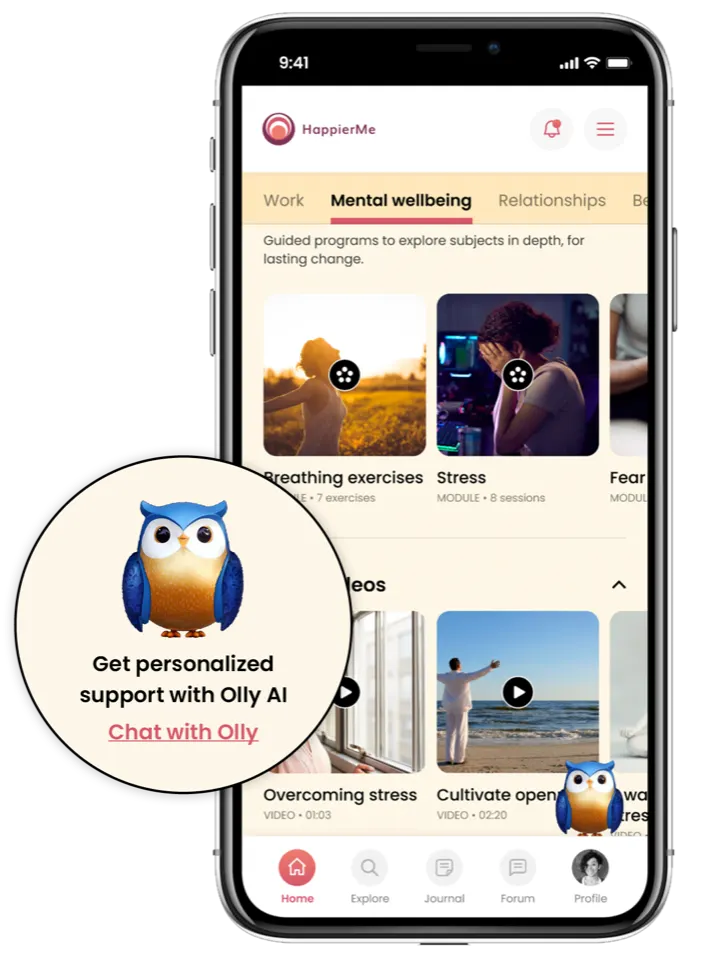
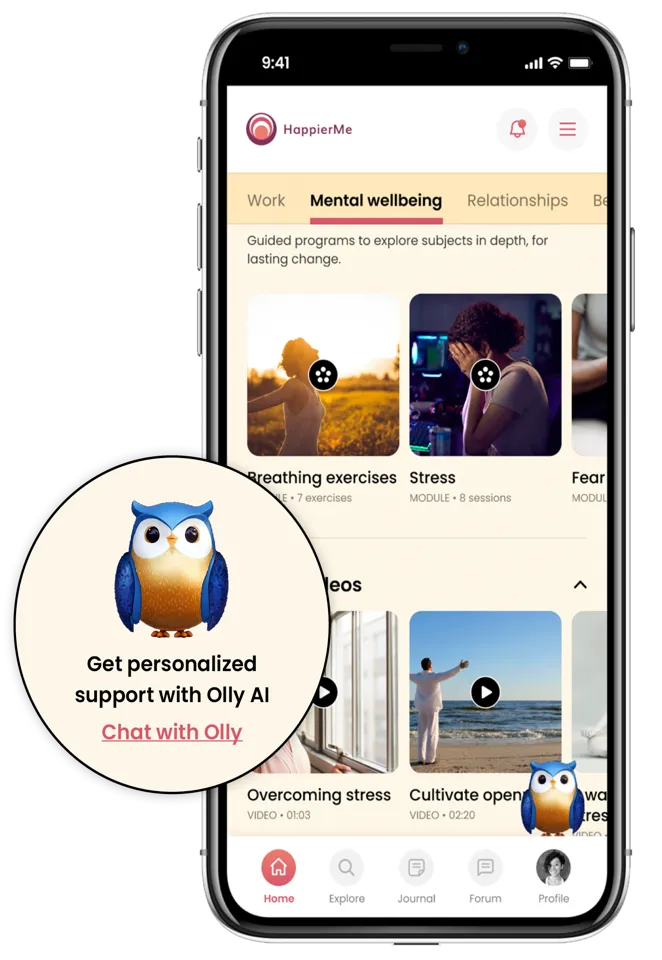
updated image

diff --git a/HumanWisdom/projects/getStarted/assets/css/index-inline.css b/HumanWisdom/projects/getStarted/assets/css/index-inline.css
@@ -302,7 +302,13 @@ img { max-width: 100%; display: block; }
 .div         { width: 100%; }
 .div-2       { display: flex; align-items: center; gap: 50px; justify-content: center; flex-wrap: wrap;margin-top:100px }
 
-/* .new-app-adults-teen { height: 480px; object-fit: contain; flex-shrink: 0; } */
+.new-app-adults-teen {
+  width: 331px;
+  height: 480px;
+  max-width: none;
+  object-fit: contain;
+  flex-shrink: 0;
+}
 
 .div-3 {margin-top: -6px; display: flex; flex-direction: column; gap: 30px; flex: 1; min-width: 280px; max-width: 654px; align-items: flex-start; }
 

diff --git a/HumanWisdom/projects/getStarted/assets/css/critical-lcp.css b/HumanWisdom/projects/getStarted/assets/css/critical-lcp.css
@@ -106,7 +106,13 @@ img { max-width: 100%; display: block; }
   margin-top: 100px;
 }
 .div-2 > picture { display: contents; }
-.new-app-adults-teen {height: 480px;  object-fit: contain; flex-shrink: 0; }
+.new-app-adults-teen {
+  width: 331px;
+  height: 480px;
+  max-width: none;
+  object-fit: contain;
+  flex-shrink: 0;
+}
 .div-3 {
   margin-top: -6px;
   display: flex;

diff --git a/HumanWisdom/projects/getStarted/index.php b/HumanWisdom/projects/getStarted/index.php
@@ -82,7 +82,7 @@ $hw_lcp_banner_mobile = hw_lcp_image_url('banner_mobile');
                 <source media="(min-width: 821px)" type="image/webp" srcset="<?= htmlspecialchars($hw_lcp_banner_desktop, ENT_QUOTES, 'UTF-8'); ?>" />
                 <img class="new-app-adults-teen"
                   src="<?= htmlspecialchars($hw_lcp_banner_mobile, ENT_QUOTES, 'UTF-8'); ?>"
-                  width="211" height="306"
+                  width="331" height="480"
                   fetchpriority="high" decoding="async" alt="HappierMe app" />
               </picture>
           <div class="div-3">
